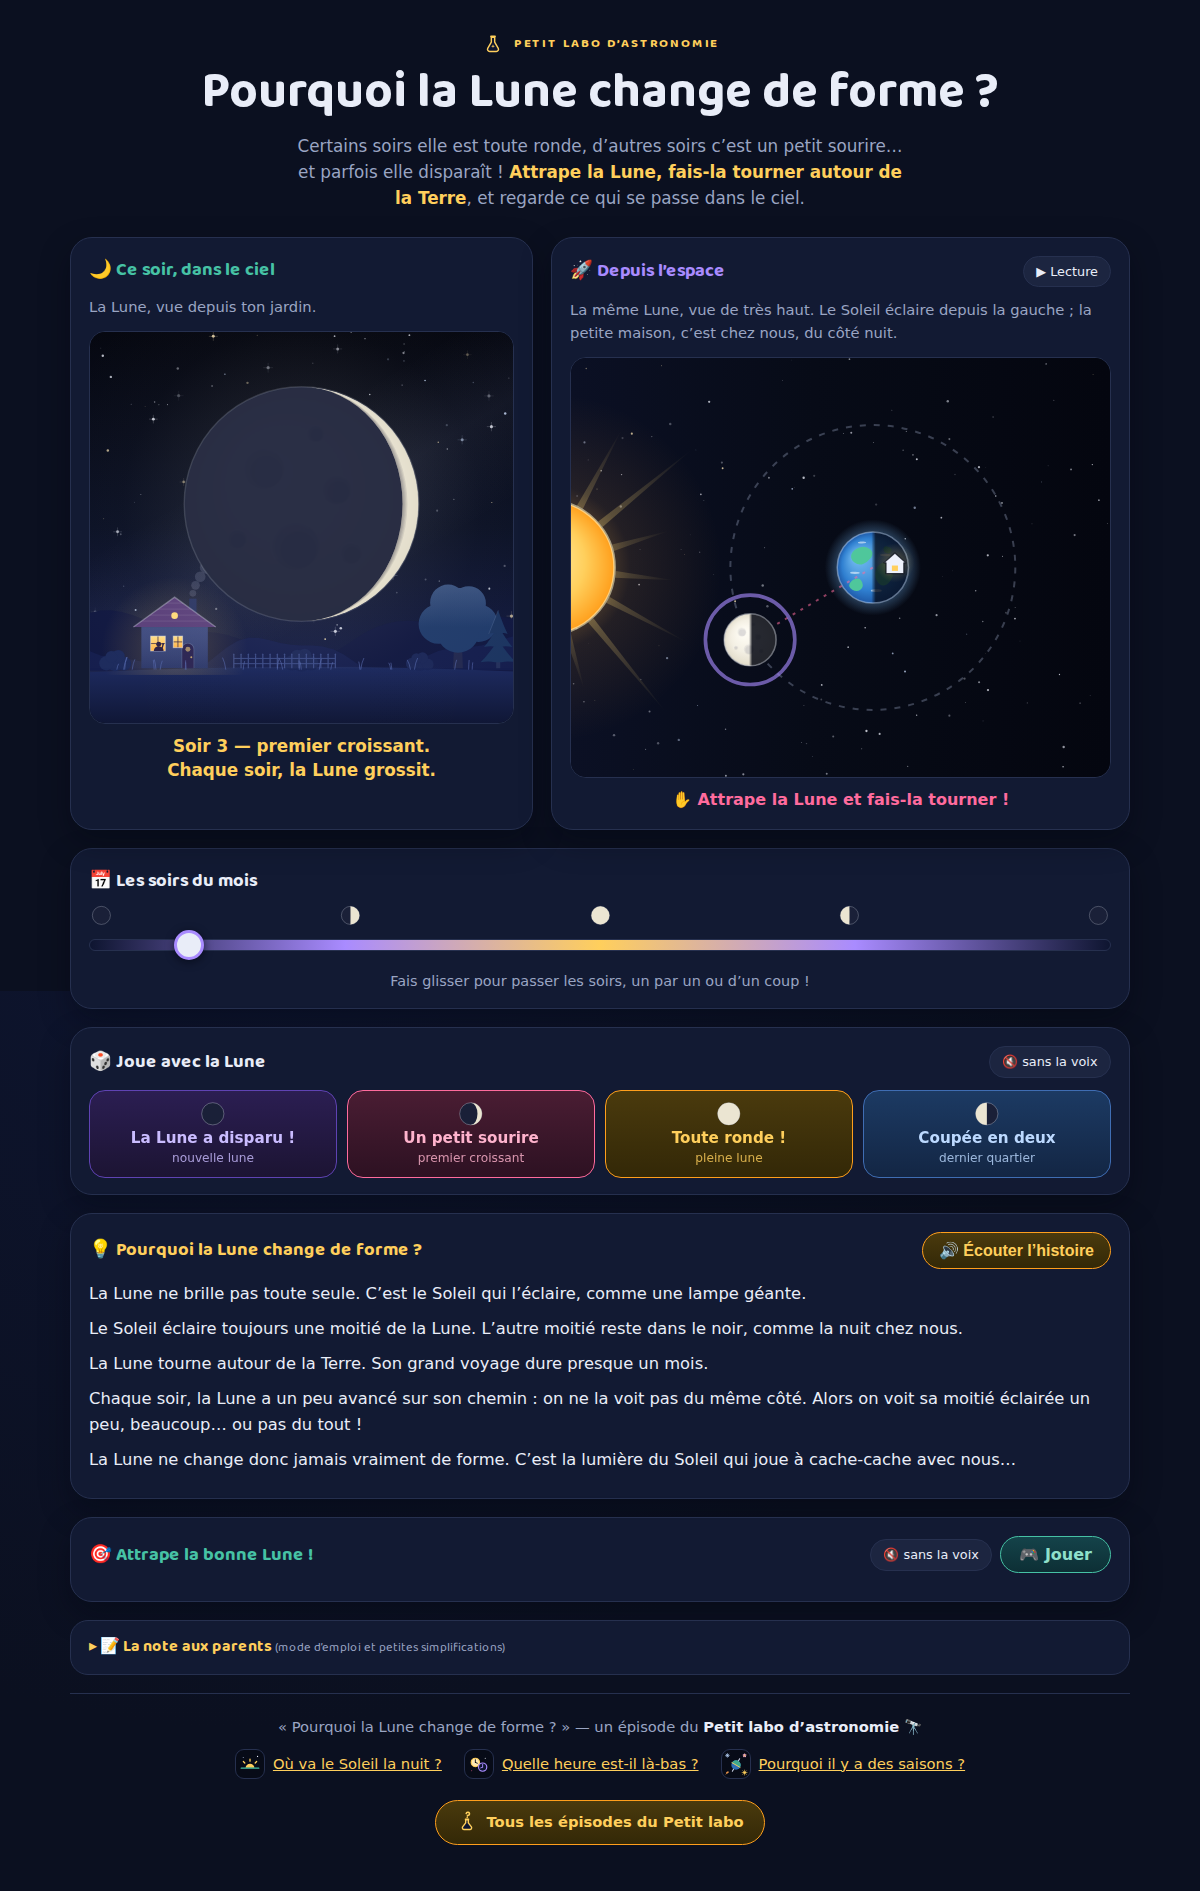
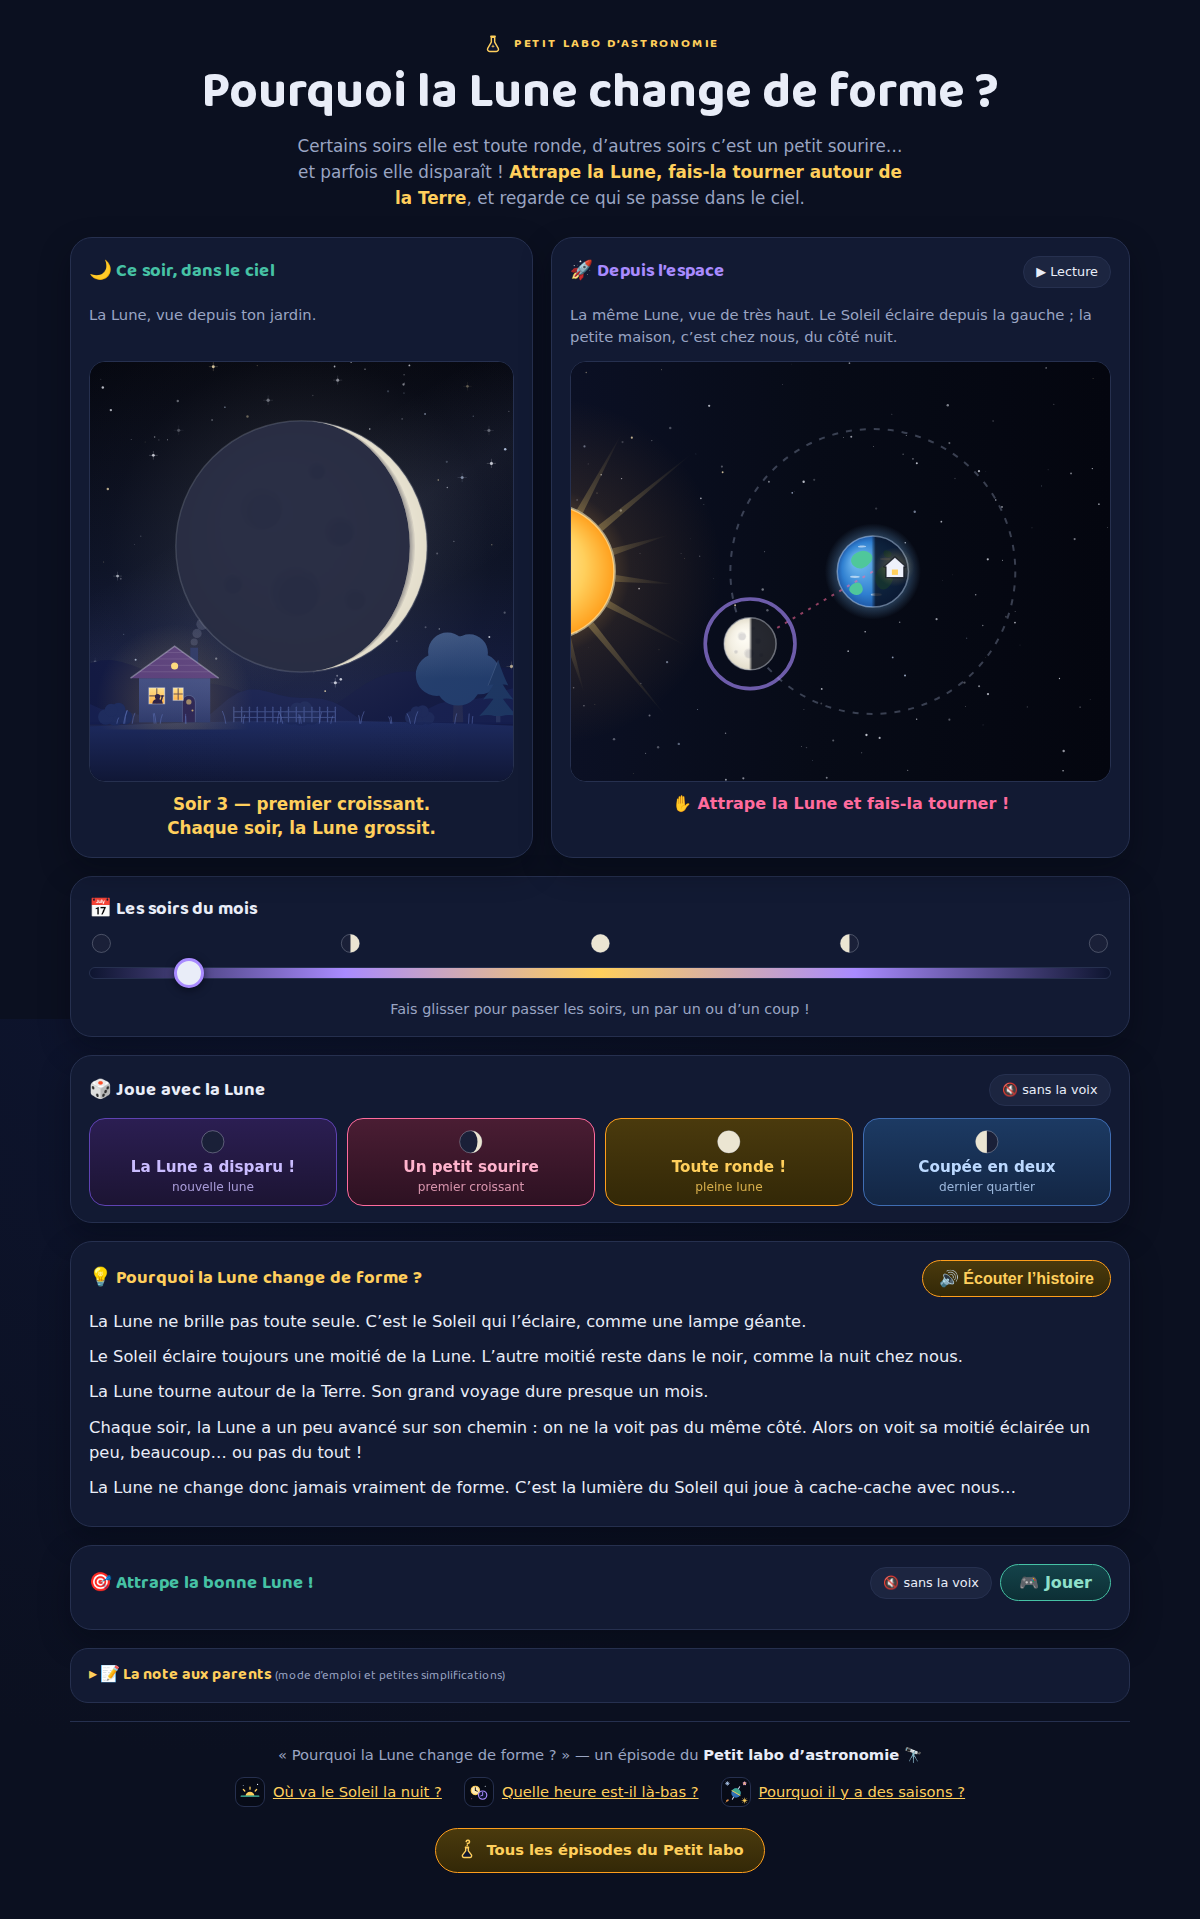
Les deux vues du haut tombent pile à la même hauteur sur grand écran
Le bouton ⏸/▶ passé à droite de « Depuis l'espace » rendait visible un
décalage plus ancien : le sous-titre de l'espace fait deux lignes contre une
au jardin (les vues démarraient à 26 px d'écart) et le cadre 13/12 du jardin
finissait 54 px plus haut que celui de l'espace en 9/7. Les deux cartes
partagent maintenant leurs quatre rangées (subgrid, gap en colonne
seulement), et la vue du jardin prend la hauteur de la rangée — celle de
l'espace, la vue qu'on manipule (règle de méthode de la famille, la même
que pour le jeu). Mesuré : écart 0 en haut et en bas de 880 à 1440 px.
Repli sans subgrid : hauteurs réservées, les hauts s'alignent.

Claude-Session: https://claude.ai/code/session_01NU1CBoUaNd48FiGT13WkuM

diff --git a/css/style.css b/css/style.css
@@ -149,6 +149,26 @@ main, header.entete, footer.pied-serie {
     align-items: stretch;
   }
   .vues .carte { margin-bottom: 18px; }
+  /* Les deux cartes partagent leurs quatre rangées (titre, sous-titre, vue,
+     phrase) : le sous-titre de l'espace fait deux lignes, celui du jardin une
+     — sans cela les vues démarraient à 26 px d'écart et finissaient à 54.
+     Avec les rangées partagées, les deux vues démarrent ET s'arrêtent PILE à
+     la même hauteur : la vue du jardin prend la hauteur de celle de l'espace
+     (la vue qu'on manipule fige, l'autre suit — règle de méthode de la
+     famille, la même que pour le jeu). Repli sans subgrid : on réserve deux
+     lignes de sous-titre et la hauteur de la rangée du titre avec bouton. */
+  .vues .titre-avec-bouton { min-height: 32px; }
+  .vues .sous-titre { min-height: 3.1em; }
+  @supports (grid-template-rows: subgrid) {
+    /* gap en colonne seulement : l'écart de 18 px ne doit pas s'insérer entre
+       les rangées partagées */
+    .vues { grid-template-rows: auto auto auto auto; gap: 0 18px; }
+    .vues .carte { display: grid; grid-template-rows: subgrid; grid-row: span 4; }
+    .vues .sous-titre { min-height: 0; }
+    /* la vue du jardin prend la hauteur de la rangée, donc celle de l'espace
+       (son ratio 13/12 la laissait 28 px plus courte) */
+    .vues .carte-hublot .cadre-canvas { aspect-ratio: auto; }
+  }
 }
 
 .cadre-canvas {

diff --git a/CLAUDE.md b/CLAUDE.md
@@ -196,6 +196,15 @@ Vérités verrouillées par `test/model.test.mjs` (à compléter, jamais supprim
   « Encore une ! » reste acquis. Le jeu est **sonore** via le même bouton
   🔇/🔊 que les scénarios (consigne au nouveau défi, bravo à la victoire —
   `consigneDefi`/`bravoDefi` du modèle).
+- **Les deux vues du haut tombent PILE à la même hauteur sur grand écran**
+  (≥ 880 px) : les deux cartes partagent leurs quatre rangées (titre,
+  sous-titre, vue, phrase) par `subgrid`, avec `gap: 0 18px` (l'écart ne
+  s'insère pas entre les rangées partagées) et la vue du jardin sans ratio
+  (`aspect-ratio: auto`) pour qu'elle prenne la hauteur de la rangée, celle
+  de l'espace. Sans cela, un sous-titre d'une ligne contre deux faisait
+  démarrer les vues à 26 px d'écart, et le ratio 13/12 les faisait finir à
+  54 px. Repli sans subgrid : deux lignes de sous-titre et 32 px de rangée de
+  titre réservés (les hauts s'alignent, les bas non).
 - **Les deux vues du jeu tombent PILE à la même hauteur** : la largeur des
   colonnes et les ratios des cadres se répondent — orbite `1.25fr` en `9/7`,
   hublot `1fr` en `36/35` (= 1 / (1,25 × 7/9), repli `padding-bottom: 97.2%`)
